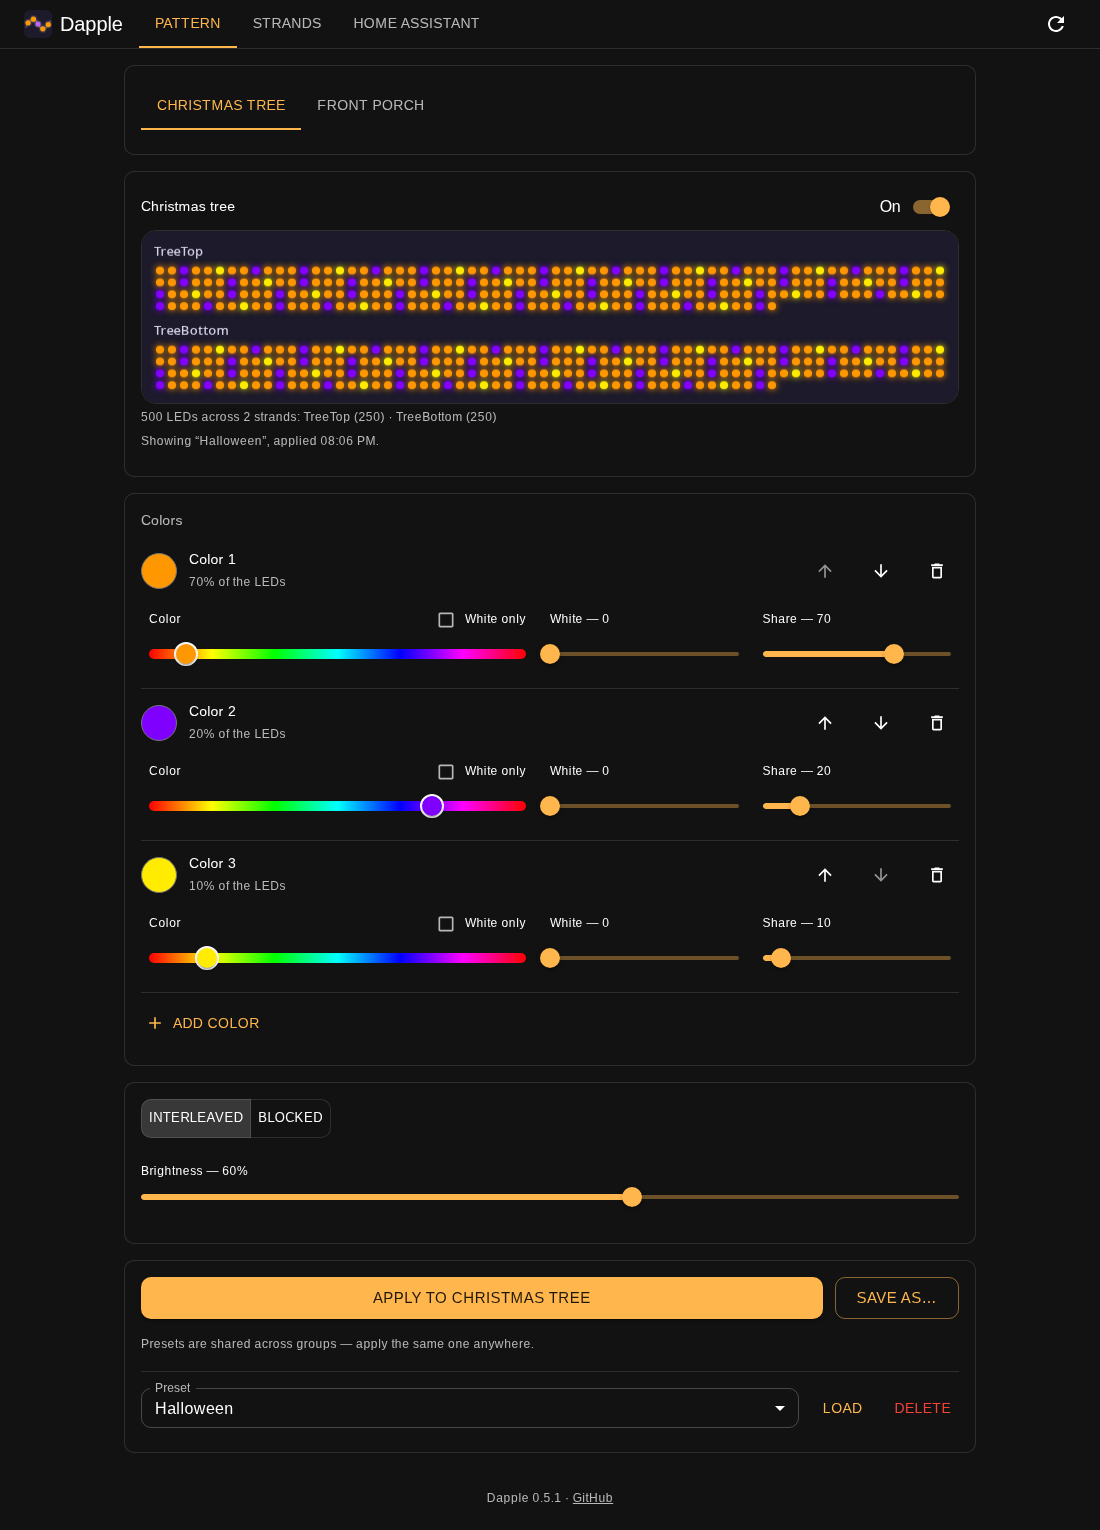
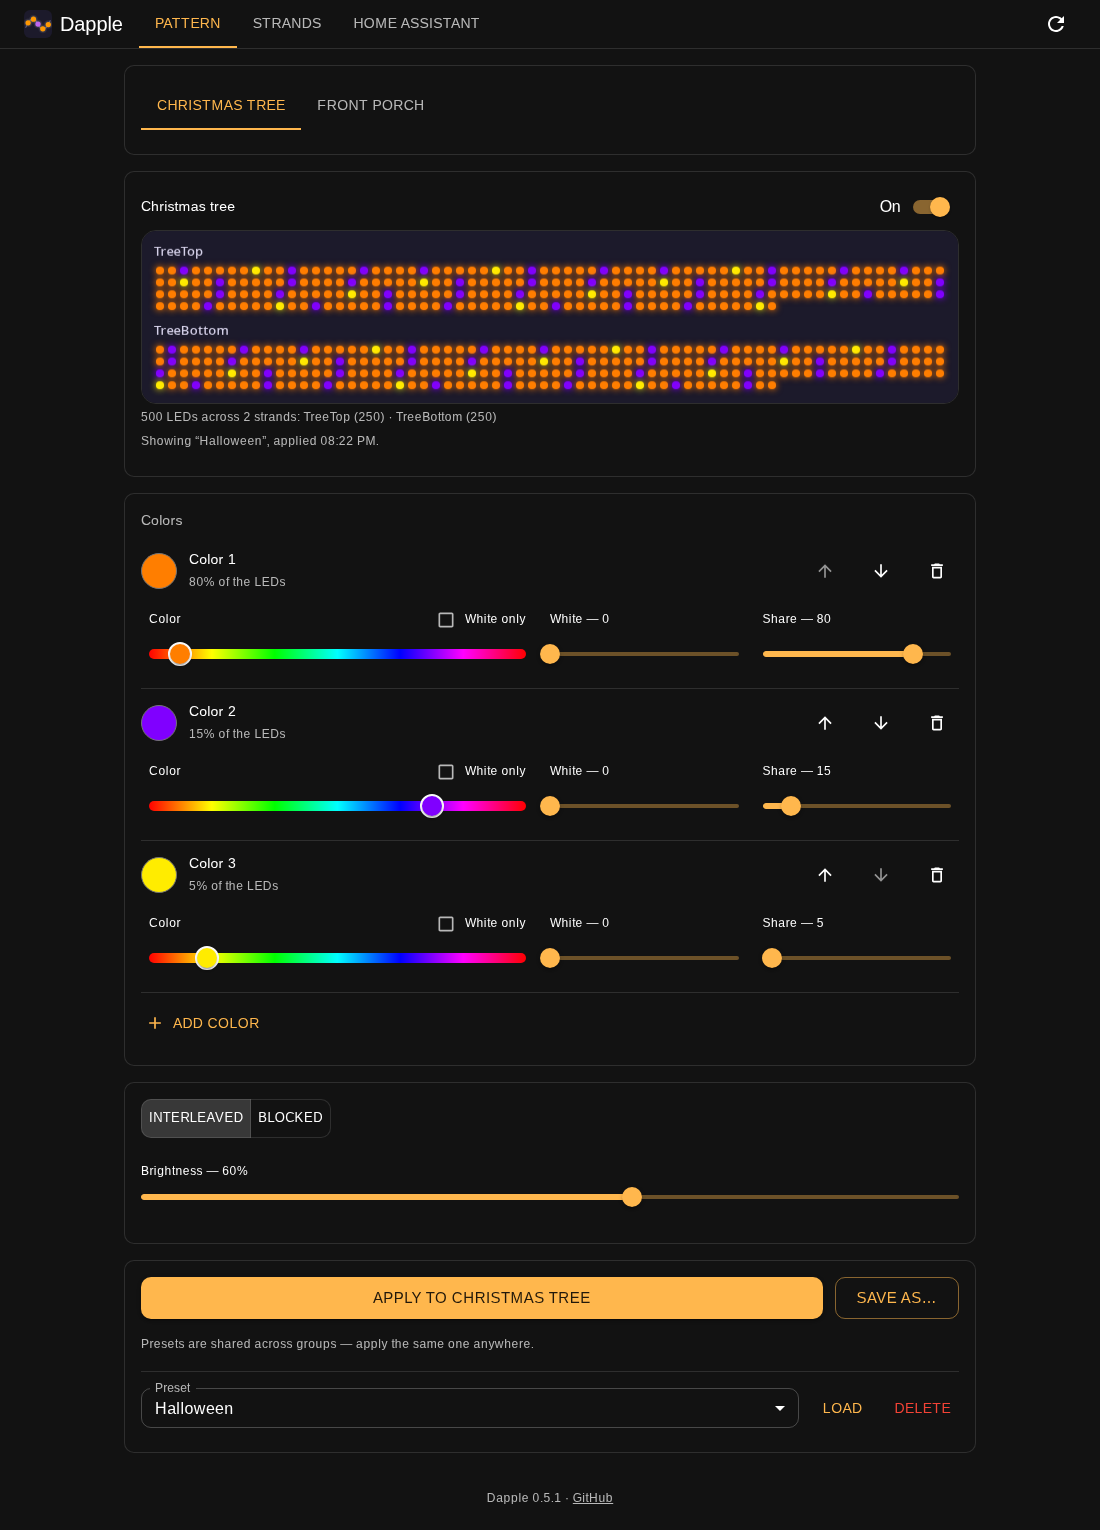
Deepen Halloween's orange and shift its shares to 80/15/5

diff --git a/app/presets.py b/app/presets.py
@@ -11,7 +11,7 @@ from app.storage import atomic_write
 
 log = logging.getLogger(__name__)
 
-ORANGE = (255, 152, 0, 0)
+ORANGE = (255, 126, 0, 0)
 PURPLE = (128, 0, 255, 0)
 RED = (255, 0, 0, 0)
 GREEN = (0, 255, 0, 0)
@@ -30,9 +30,9 @@ def default_presets() -> dict[str, Pattern]:
     return {
         "Halloween": Pattern(
             slots=[
-                Slot(rgbw=ORANGE, weight=70),
-                Slot(rgbw=PURPLE, weight=20),
-                Slot(rgbw=YELLOW, weight=10),
+                Slot(rgbw=ORANGE, weight=80),
+                Slot(rgbw=PURPLE, weight=15),
+                Slot(rgbw=YELLOW, weight=5),
             ]
         ),
         "Christmas": Pattern(

diff --git a/docs/releases/0.5.1.md b/docs/releases/0.5.1.md
@@ -2,9 +2,9 @@ Halloween gets a little yellow.
 
 ## What's changed
 
-- **The built-in Halloween preset now has three colors:** orange (70%), purple (20%) and a touch of yellow (10%), where it used to be just orange and purple.
+- **The built-in Halloween preset now has three colors:** a deeper orange (80%), purple (15%) and a touch of yellow (5%), where it used to be just orange and purple.
 
-New installs start with the new Halloween. If you already run Dapple, your presets stay exactly as you left them, including Halloween. To get the new one, open Halloween in the pattern editor, add a yellow color, set the shares to 70, 20 and 10, and save it over the old one.
+New installs start with the new Halloween. If you already run Dapple, your presets stay exactly as you left them, including Halloween. To get the new one, open Halloween in the pattern editor, add a yellow color, set the shares to 80, 15 and 5, and save it over the old one.
 
 ## Upgrading
 
